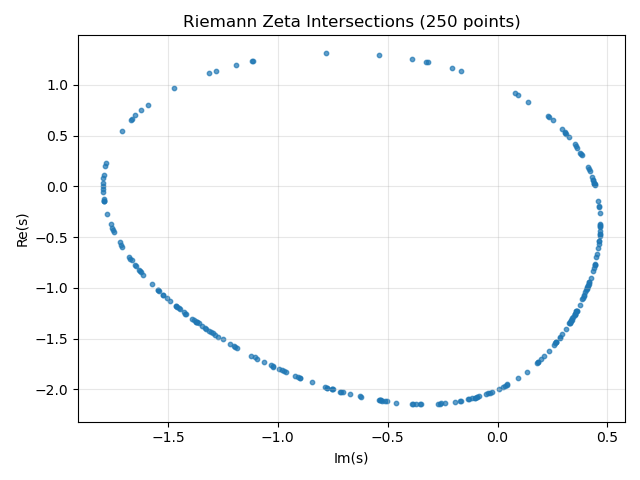
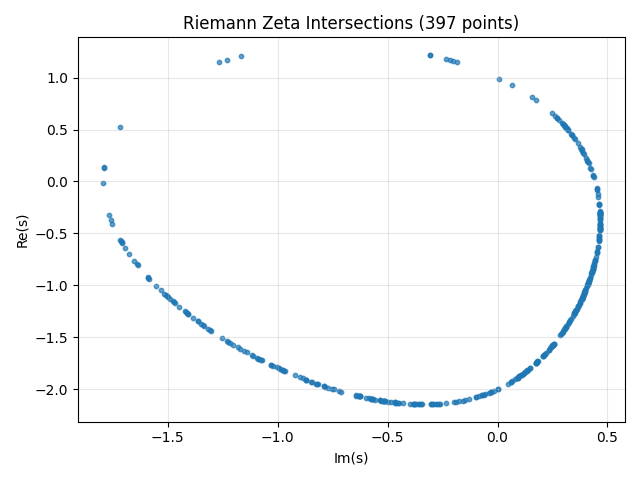
Small edits

diff --git a/examples/eggsplorer.py b/examples/eggsplorer.py
@@ -7,7 +7,7 @@ import zetaExplorer
 starting_point = (-2, 0)
 
 # Explore the curves
-results =zetaExplorer.run("circleSearch", starting_point=starting_point,radius_range=(0.5,1.5),rounds=5,circles_per_round=25,precision=500)
+results =zetaExplorer.run("circleSearch", starting_point=starting_point,radius_range=(0.5,1),rounds=8,circles_per_round=25,precision=250)
 
-results.to_csv("egg_points.csv")
 results.plot_intersects()
+results.plot_3d()

diff --git a/examples/non-trivial_peaks.py b/examples/non-trivial_peaks.py
@@ -11,6 +11,6 @@ results = None
 for z in zeros:
     r = zetaExplorer.run("findMaxReal", starting_point=(float(z.real), float(z.imag)), initial_radius=0.75, iterations=20, verbose=False)
     results = r if results is None else results + r
-    print("Peak: ",r.peak_real[0])
+    print("Peak height: ",r.peak_real[0])
 
 results.plot_intersects(show_critical_line=True)

diff --git a/zetaExplorer.py b/zetaExplorer.py
@@ -13,7 +13,7 @@ import matplotlib
 matplotlib.use("TkAgg")
 
 mpmath.mp.dps = 25
-
+np.random.seed(42)
 
 def _generate_circle(cx, cy, radius, n):
     angles = np.linspace(0, 2 * np.pi, n, endpoint=False)

diff --git a/README.md b/README.md
@@ -34,9 +34,8 @@ pip install --upgrade git+https://github.com/JDvorak1/Zeta-intersect-explorer.gi
 - [The Riemann-zeta fingerprint](#the-riemann-zeta-fingerprint)
 - [The zeta egg](#the-zeta-egg)
 - [Single curves](#single-curves)
-- [Non-trivial peaks](#non-trivial-peaks)
 - [Box search](#box-search)
-- [Installation](#installation)
+- [Non-trivial peaks](#non-trivial-peaks)
 - [API reference](#api-reference)
 - [File structure](#file-structure)
 
@@ -44,7 +43,7 @@ pip install --upgrade git+https://github.com/JDvorak1/Zeta-intersect-explorer.gi
 
 ## The Riemann-zeta fingerprint
 
-Running a broad circle search from a central seed reveals the fingerprint of the Riemann zeta function — the characteristic pattern of intersection points spread across the complex plane.
+Running a broad circle search from a central seed reveals the fingerprint of the Riemann zeta function. From these points, it's already possible to see the curves.
 
 ![Fingerprint map centered near the origin](figures/fingerprint%200.png)
 
@@ -75,6 +74,10 @@ Near the trivial zero at (−2, 0) the intersection curve closes into a loop.
 
 ![The zeta egg](figures/the%20zeta%20egg.png)
 
+3d plot of the zeta egg.
+
+![The zeta egg](figures/3d_egg.gif)
+
 Produced with [`examples/eggsplorer.py`](examples/eggsplorer.py):
 
 ```python
@@ -82,16 +85,17 @@ import zetaExplorer
 
 results = zetaExplorer.run("circleSearch", starting_point=(-2, 0),
                            radius_range=(0.5, 1.5), rounds=5,
-                           circles_per_round=25, precision=500)
-results.to_csv("egg_points.csv")
+                           circles_per_round=25, precision=250)
+
 results.plot_intersects()
+results.plot_3d()
 ```
 
 ---
 
 ## Single curves
 
-The **Columbus search** (`columbusSearch`) works differently from the circle search. Instead of spreading outward in all directions, it always steps toward the point farthest from the starting location — hugging a single branch and following it wherever it leads.
+The **Columbus search** (`columbusSearch`) works differently from the circle search. Instead of spreading outward in all directions, it always steps toward the point farthest from the starting location.
 
 This makes it well-suited for tracing complicated, winding curves inside the Riemann plane without losing the thread.
 
@@ -120,7 +124,7 @@ results = zetaExplorer.run("circleSearch", seed_results=results)
 results.to_csv("intersections.csv")
 results.plot_intersects()
 ```
-Curve stating at the first zero on the critical line.
+Curve starting at the first zero on the critical line.
 
 ![Single curve traced by the Columbus algorithm](figures/single%20curve%20algo.png)
 
